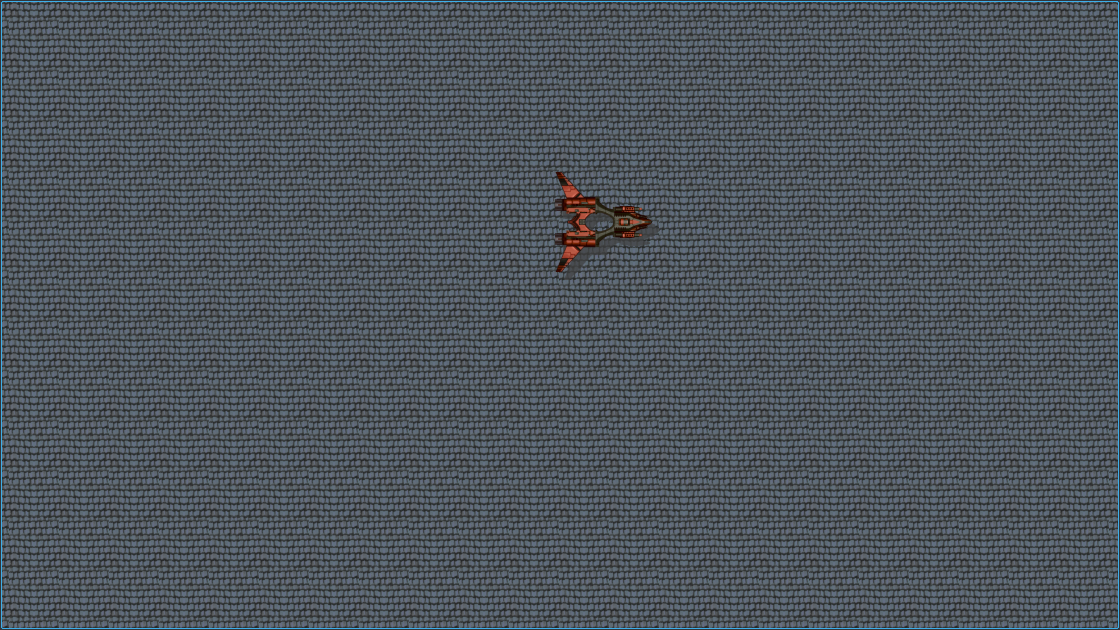
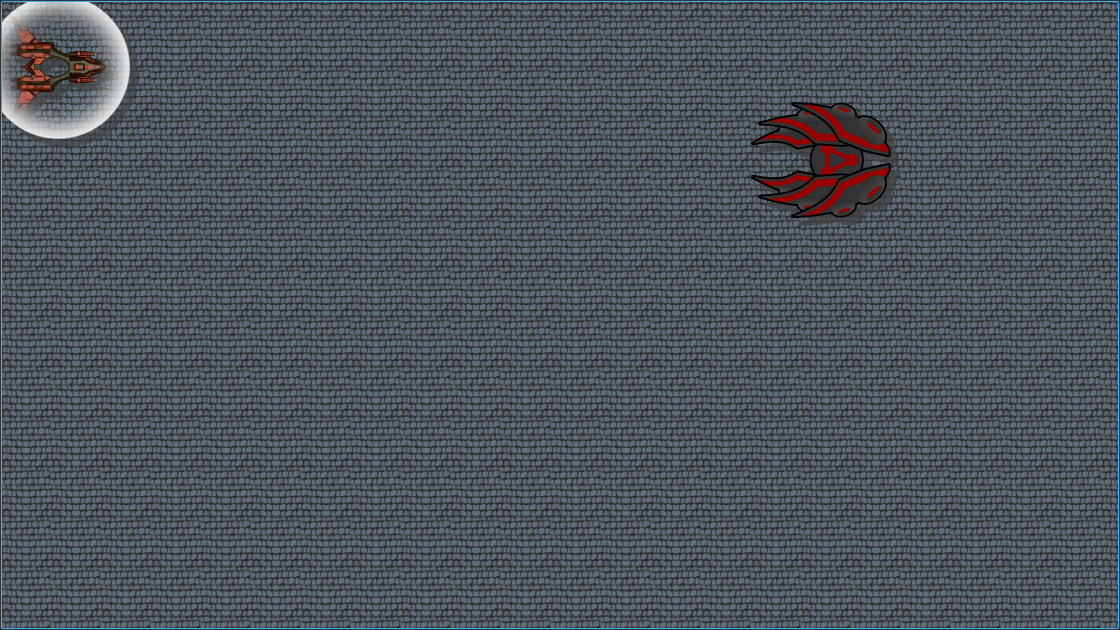
Project Update

diff --git a/Sources/Source Files/Game Objects/MyAlien.cpp b/Sources/Source Files/Game Objects/MyAlien.cpp
@@ -5,10 +5,12 @@
 #include <Sources/Headers/Game Objects/MyAlien.h>
 
 MyAlien::MyAlien(QGraphicsItem *parent) :
-		QGraphicsPixmapItem(QPixmap(MyRes::str_add).scaled(MyRes::str_size, Qt::KeepAspectRatio,
+		QGraphicsPixmapItem(
+				QPixmap(MyRes::aln_nrml_adds[rand() % MyRes::aln_nrml_cnt]).scaled(140, 140, Qt::KeepAspectRatio,
 		                                                   Qt::SmoothTransformation), parent) {
 	setGraphicsEffect(new QGraphicsDropShadowEffect());
 	vlc = new QPointF(0, 0);
+	tmr_id = startTimer(1000);
 }
 
 MyAlien::~MyAlien() {
@@ -18,3 +20,19 @@ MyAlien::~MyAlien() {
 void MyAlien::updt() {
 	setPos(pos().x() + vlc->x(), pos().y() + vlc->y());
 }
+
+void MyAlien::timerEvent(QTimerEvent *event) {
+	for (int i = -45; i <= 45; i += 9) {
+		MyBullet *tmp = new MyBullet(1, i, -1);
+		tmp->setPos(pos().x(),
+		            pos().y() + (pixmap().height() / 2) - (MyRes::lsr_size.height() / 2));
+		scene()->addItem(tmp);
+	}
+
+//	MyBullet *tmp = new MyBullet(1, 0, -1);
+//	tmp->setPos(pos().x(),
+//	            pos().y() + (pixmap().height() / 2) - (MyRes::lsr_size.height() / 2));
+//	scene()->addItem(tmp);
+}
+
+

diff --git a/Sources/Source Files/Game Objects/MyBullet.cpp b/Sources/Source Files/Game Objects/MyBullet.cpp
@@ -4,14 +4,18 @@
 
 #include <Sources/Headers/Game Objects/MyBullet.h>
 
-MyBullet::MyBullet(int lsr_num, int rtn, QGraphicsItem *parent) :
+MyBullet::MyBullet(int lsr_num, int rtn, int dir, QGraphicsItem *parent) :
 		QGraphicsPixmapItem(QPixmap(MyRes::lsr_add[lsr_num]).scaled(MyRes::lsr_size, Qt::KeepAspectRatio,
 		                                                            Qt::SmoothTransformation), parent) {
 	setGraphicsEffect(new QGraphicsDropShadowEffect());
-	MyBullet::rtn = rtn;
-	vlc = new QPointF(MyRes::lsr_mvmnt * cos(rtn * M_PI / 180.0), MyRes::lsr_mvmnt * sin(rtn * M_PI / 180.0));
+	if (dir == -1)
+		MyBullet::rtn = 180 - rtn;
+	else
+		MyBullet::rtn = rtn;
+	vlc = new QPointF(MyRes::lsr_mvmnt * cos(MyBullet::rtn * M_PI / 180.0),
+	                  MyRes::lsr_mvmnt * sin(MyBullet::rtn * M_PI / 180.0));
 	setTransformOriginPoint(0, pixmap().height() / 2);
-	setRotation(rtn);
+	setRotation(MyBullet::rtn);
 }
 
 MyBullet::~MyBullet() {

diff --git a/Sources/Source Files/Game Objects/MyShip.cpp b/Sources/Source Files/Game Objects/MyShip.cpp
@@ -105,9 +105,8 @@ void MyShip::updt_vlc(QSet<int> *prsd_kys) {
 	if (prsd_kys->find(Qt::Key_Right) != prsd_kys->end())
 		vlc->setX(vlc->x() + MyRes::shp_mvmnt);
 	if (prsd_kys->find(Qt::Key_Space) != prsd_kys->end()) {
-		// Fire Bullet
 		if (!mgc) {
-			MyBullet *tmp = new MyBullet(0, 0);
+			MyBullet *tmp = new MyBullet(0);
 			tmp->setPos(pos().x() + pixmap().width(),
 			            pos().y() + (pixmap().height() / 2) - (MyRes::lsr_size.height() / 2));
 			scene()->addItem(tmp);
@@ -121,7 +120,6 @@ void MyShip::updt_vlc(QSet<int> *prsd_kys) {
 			}
 		}
 	}
-
 }
 
 void MyShip::updt_rtn() {
@@ -162,5 +160,4 @@ void MyShip::updt(QSet<int> *prsd_kys) {
 	updt_vlc(prsd_kys);
 	updt_rtn();
 	updt_pos();
-	QGraphicsPixmapItem::update();
 }

diff --git a/Sources/Headers/Game Objects/MyAlien.h b/Sources/Headers/Game Objects/MyAlien.h
@@ -7,9 +7,11 @@
 
 #include <QGraphicsDropShadowEffect>
 #include <QGraphicsPixmapItem>
+#include <QGraphicsScene>
 #include <QElapsedTimer>
 #include <QPointF>
 #include <QPixmap>
+#include <Sources/Headers/Game Objects/MyBullet.h>
 #include <Sources/Headers/Resources.h>
 
 class MyAlien : public QObject, public QGraphicsPixmapItem {
@@ -23,10 +25,15 @@ public:
 private:
 	int typ;
 
+	int tmr_id;
+
 	int mss;
 	QPointF *vlc;
 	QPointF *acc;
 	QPointF *frc;
+
+protected:
+	void timerEvent(QTimerEvent *);
 };
 
 #endif //SHOOTER_AP93UT_MYALIEN_H

diff --git a/Sources/Source Files/Widgets/MyGame.cpp b/Sources/Source Files/Widgets/MyGame.cpp
@@ -18,7 +18,7 @@ MyGame::MyGame(QWidget *parent) :
 	tmp = new MyShip(QPixmap(MyRes::shp_adds[SettingData::uShp]));
 	gscn->addItem(tmp);
 	gscn->addItem(tmp->shpshld);
-	tmp1 = new MyMagic();
+	tmp1 = new MyAlien();
 	tmp1->setPos(1000, 100);
 	gscn->addItem(tmp1);
 	setScene(gscn);

diff --git a/Sources/Headers/Game Objects/MyBullet.h b/Sources/Headers/Game Objects/MyBullet.h
@@ -14,7 +14,7 @@
 
 class MyBullet : public QGraphicsPixmapItem {
 public:
-	MyBullet(int, int, QGraphicsItem *parent = 0);
+	MyBullet(int, int = 0, int = 1, QGraphicsItem *parent = 0);
 
 	~MyBullet();
 

diff --git a/Sources/Headers/Widgets/MyGame.h b/Sources/Headers/Widgets/MyGame.h
@@ -45,7 +45,7 @@ private:
 	QGraphicsScene *gscn;
 
 	MyShip *tmp;
-	MyMagic *tmp1;
+	MyAlien *tmp1;
 
 	int timer_id;
 
